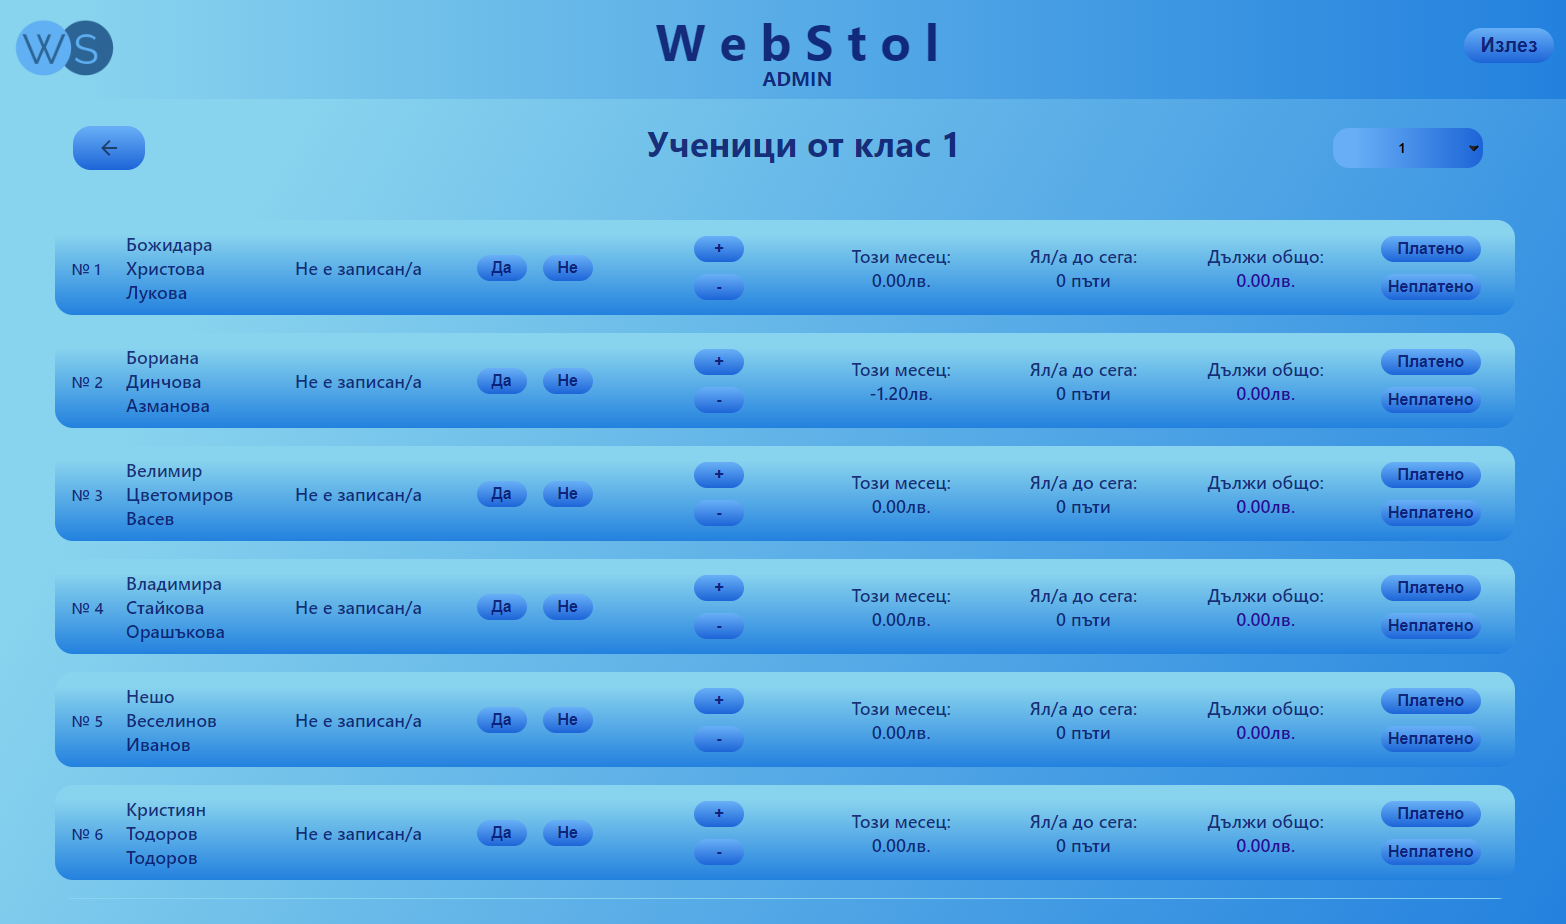
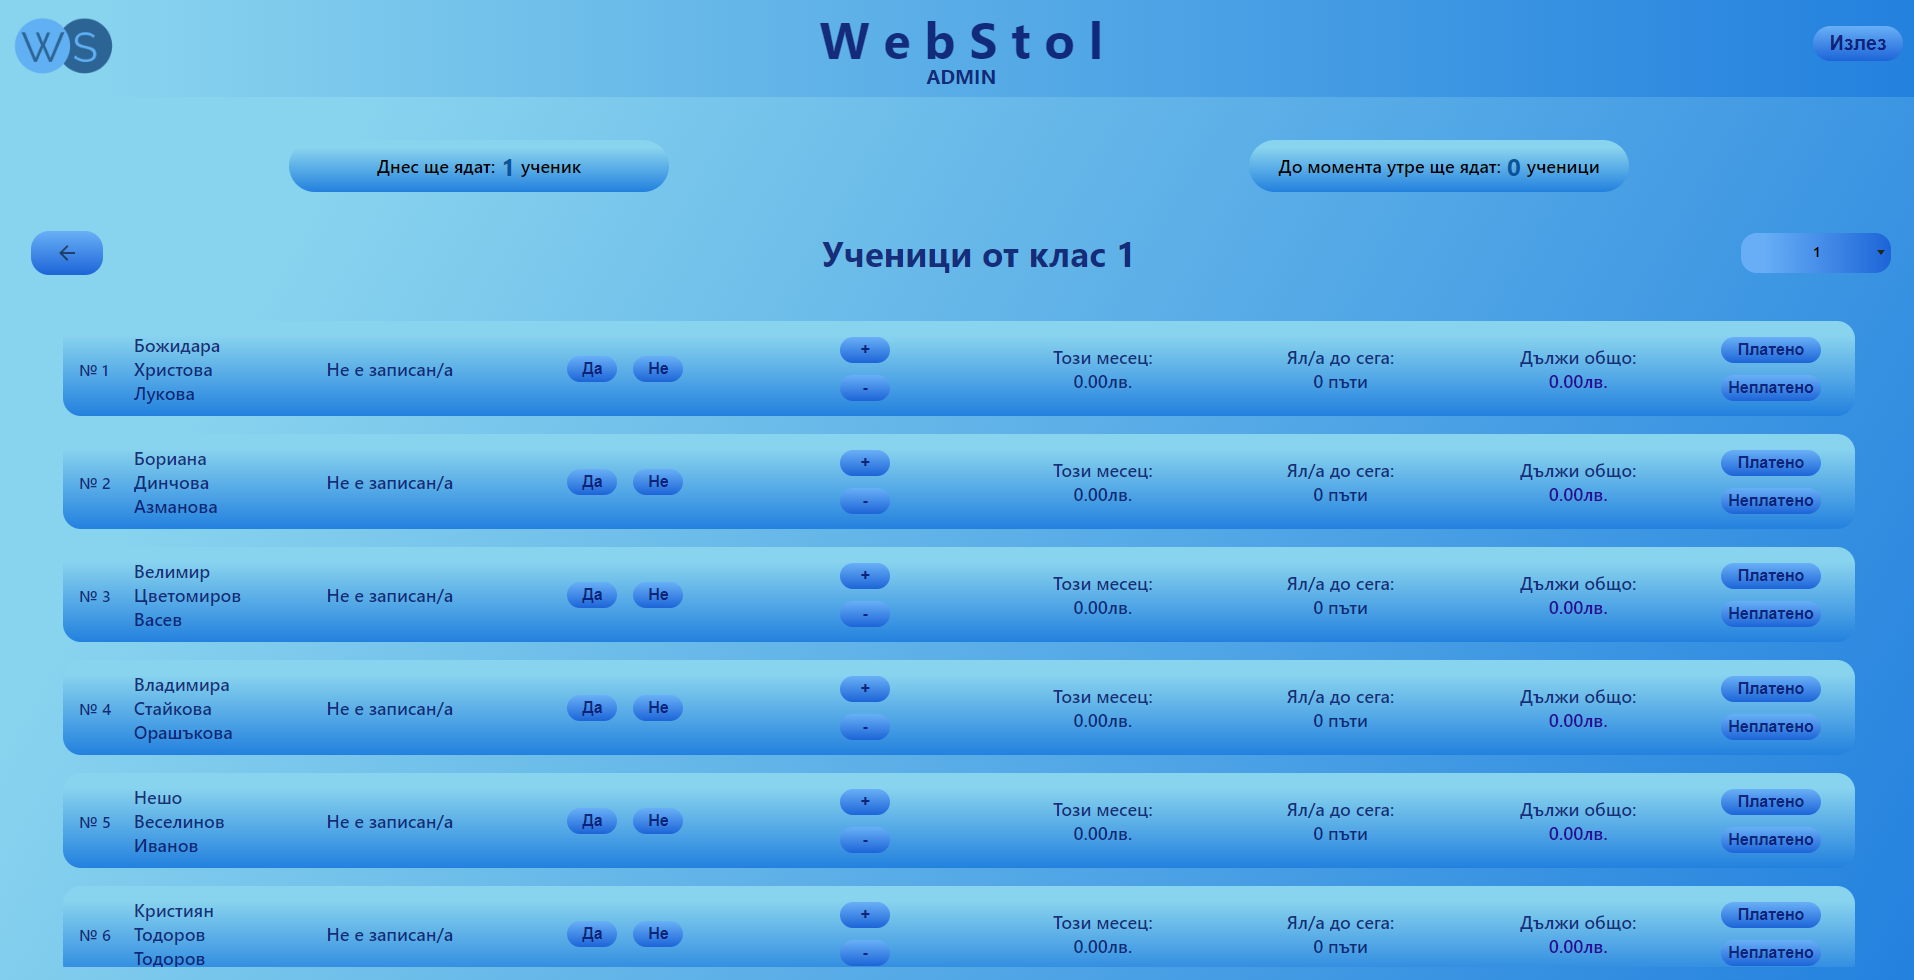
done

diff --git a/src/styles/menuMoneyCC.css b/src/styles/menuMoneyCC.css
@@ -6,8 +6,8 @@
 }
 .menu__money--div p {
   font-size: var(--fs-550);
-  text-align:center;
-  margin-left:12px;
+  text-align:left!important;
+  margin-left:18px;
   width: 100%;
   display: flex;
   flex-wrap: wrap;
@@ -19,18 +19,18 @@
 .display-flex {
   display: flex;
   flex-wrap: wrap;
-  justify-content: center;
+  justify-content: flex-start!important;
   align-items: center;
-  width: 100%;
+  width: 50%;
   margin-right:24px;
-  max-width: 470px;
+  max-width: 670px;
 }
 .display-flex-two {
   display: flex;
   margin-top: 36px;
   justify-content: center;
   align-items: center;
-  width: 100%;
+  width: 50%;
   max-width: 470px;
 }
 .menu-display-flex {
@@ -59,25 +59,25 @@
   .menu__money--div p {
     font-size: var(--fs-530);
     text-align:center;
-  margin-left:12px;
     font-weight: 600;
   }
   .menu__money--div .button {
     margin-bottom: 12px;
   }
-  .display-flex-two {
+  /* .display-flex-two {
     max-width: 400px;
-  }
+  } */
+}
+@media only screen and (max-width: 960px){
+  .menu__money--div .button {
+    margin-top:12px;
+   }
 }
 @media only screen and (max-width: 845px) {
   .menu__money--div p {
     font-size: var(--fs-530);
-    text-align:center;
-  margin-left:12px;
     height: 100%;
     font-weight: 600;
   }
-  .display-flex {
-    max-width: 350px;
-  }
+ 
 }

diff --git a/src/pages/MainPagePages/UsersListPageComponents/DisplayUsersList.js b/src/pages/MainPagePages/UsersListPageComponents/DisplayUsersList.js
@@ -348,8 +348,17 @@ const [eatNumberForToday, serEatNumberForToday] = useState();
   return (
     <div className="main-div-displayUsersList">
       <div className="data-container">
-        <div className="data data-today">Днес ще ядат: <span>{eatNumberForToday}</span> </div>
-        <div className="data data-tomorrow">До момента утре ще ядат: <span>{eatNumberForTomorrow}</span></div>
+        {eatNumberForToday === 1 ? (
+          <div className="data data-today">Днес ще ядат:<span>{eatNumberForToday}</span>ученик</div>
+        ):(
+          <div className="data data-today">Днес ще ядат:<span>{eatNumberForToday}</span>ученици</div>
+        )}
+        {eatNumberForTomorrow === 1 ? (
+
+          <div className="data data-tomorrow">До момента утре ще ядат:<span>{eatNumberForTomorrow}</span>ученик</div>
+          ): (
+            <div className="data data-tomorrow">До момента утре ще ядат:<span>{eatNumberForTomorrow}</span>ученици</div>
+          )}
       </div>
       <div className="df students-df">
           <div className="icon-button-div">

diff --git a/src/styles/DisplayUsersList.css b/src/styles/DisplayUsersList.css
@@ -29,11 +29,11 @@ main
 }
 .map-div:hover {
   overflow-x:hidden;
-  transform: scale(1.02);
+  transform: scale(1.04);
   box-shadow: 7px 8px 15px #010535c9;
 }
 .students-df {
-  padding: 16px;
+  padding: 16px 28px ;
   overflow:hidden;
   display: flex;
   width: 100%;
@@ -186,7 +186,6 @@ selector
 
 */
 .selector-title {
-  margin-left:40px;
   font-size: var(--fs-700);
 }
 .student-select {
@@ -250,7 +249,7 @@ select option {
   padding: 15px 0;
   display: flex;
   align-items: center;
-  justify-content: center;
+  justify-content: flex-start;
 }
 
 .back-icon {
@@ -270,17 +269,23 @@ select option {
 .data{
   transition: all 450ms ease;
   /* margin:0 12px; */
-  font-size:22px;
+  font-size:18px;
+  width:100%;
   font-weight:600;
-  padding:16px;
-  min-width:40%;
+  padding:8px 24px;
+  margin:36px 0 12px 0;
+  /* min-width:40%; */
   display: flex;
   align-items: center;
   justify-content: center;
+  background: linear-gradient(180deg, var(--lightBlue) 15.34%, #2280de 100.78%);
+  border-radius:48px;
+  max-width:380px!important;
 }
 
 .data:hover {
   transform: scale(1.04);
+  box-shadow: 6px 3px 10px #010535c9;
 }
 .padding-right{
  display: flex;

diff --git a/src/pages/MainPageCustomComponents/usersListCC.js b/src/pages/MainPageCustomComponents/usersListCC.js
@@ -50,12 +50,26 @@ export default function UsersListCC({ Set_UL_CC_GetEatNumber_Loading }) {
 
     return (
       <div className="tab__description-users">
-        <p>
-          Днес ще ядат - <span>{eatNumberForToday}</span>
+          {eatNumberForToday === 1 ? (
+            
+            <p className="column-p">
+            Днес ще ядат: <span>{eatNumberForToday} ученик</span>
+            </p>
+            ):(
+              <p className="column-p">
+              Днес ще ядат: <span>{eatNumberForToday} ученици</span>
+              </p>
+            )}
+        {eatNumberForTomorrow === 1 ? (
+
+          <p className="column-p">
+          До момента утре ще ядат: <span>{eatNumberForTomorrow} ученик</span>
         </p>
-        <p>
-          До момента утре ще ядат - <span>{eatNumberForTomorrow}</span>
-        </p>
+          ): (
+            <p className="column-p">
+            До момента утре ще ядат: <span>{eatNumberForTomorrow} ученици</span>
+          </p>
+          )}
       </div>
     );
   }

diff --git a/src/styles/menuForThisWeek.css b/src/styles/menuForThisWeek.css
@@ -1,8 +1,16 @@
+.menu-center{
+  display: flex;
+  flex-direction:column;
+  align-items: center;
+  justify-content: center;
+}
+
 .main-div-menuThisWeek {
   display: flex;
   flex-wrap: wrap;
   margin: 36px;
-  padding: 0px 8px;
+  padding: 0px ;
+  max-width:1500px;
   border-radius: 16px;
   justify-content: center;
   align-items: center;
@@ -30,7 +38,7 @@
   justify-content: space-around;
   /* height:250px; */
   overflow: hidden;
-  padding: 12px;
+  padding: 12px 16px;
   margin-right:12px;
   /* background: linear-gradient(360deg, var(--secondaryBackground-firstColor) 2.34%, var(--secondaryBackground-secondColor) 100.78%); */
   /* max-width:420px;

diff --git a/src/pages/MainPagePages/MonthReportPage.js b/src/pages/MainPagePages/MonthReportPage.js
@@ -129,8 +129,8 @@ export default function MonthReport() {
       )}
       <div className={!loading ? null : "opacity-container"}>
         <div className="month__report--content-div">
-          <main className="main__section--MonthReportPage">
             <PageHeader />
+          <main className="main__section--MonthReportPage">
             <div className="there__was--no-div-but-i-wanted-padding-top-and-bottom ">
               <div className="month__report-df">
               <IconButton className="arrow-back  back-icon" aria-label="delete" size="small" onClick={goToMainPage}>

diff --git a/src/styles/MonthReportPage.css b/src/styles/MonthReportPage.css
@@ -40,14 +40,17 @@ main
 */
 .month__report--content-div {
   height: 100vh;
+  overflow:hidden;
 }
 .main__section--MonthReportPage {
-  height: 100%;
+  height: 90%;
   background: linear-gradient(120deg, var(--background-firstColor) 15.34%, var(--background-secondColor) 100.78%);
   display: flex;
   flex-wrap: wrap;
   align-items: center;
   justify-content: center;
+  overflow:hidden;
+  padding-top:40px;
 }
 /*
 
@@ -60,6 +63,8 @@ go back button
   justify-content: space-between;
   width: 100%;
   padding: 12px;
+  margin-top:-24px;
+  
 }
 
 /*

diff --git a/src/styles/MainPage.css b/src/styles/MainPage.css
@@ -165,7 +165,6 @@ Big box css
 .single__box--child {
   width: 100%;
   overflow: hidden;
-  
 }
 .tab__description-menu {
   margin-right: 16px;
@@ -210,7 +209,7 @@ multiple things
   z-index: 1;
   transform: translateY(100%);
   transition: all 750ms ease;
-
+  text-align:left!important;
 }
 
 .menu-img,
@@ -331,7 +330,8 @@ dual boxes
 } 
 
 span {
-  color: #0b549d ;
+  color: #0b549d!important ;
   padding: 2px 6px;
-  font-size: 32px;
+  font-weight:bold;
+  font-size: 24px;
 }

diff --git a/src/pages/MainPagePages/MenuMoneyPageComponents/menuForNextWeek.js b/src/pages/MainPagePages/MenuMoneyPageComponents/menuForNextWeek.js
@@ -92,7 +92,7 @@ export default function MenuForThisWeek({
   };
 
   return (
-    <>
+    <div className="menu-center">
       <h3 className="week__title-two ">Въведете менюто за следващата седмица </h3>
       <div className="next-week" ref={divRef}>
         {newMeals.map((element) => (
@@ -144,6 +144,6 @@ export default function MenuForThisWeek({
           Запази меню
         </button>
       </div>
-    </>
+    </div>
   );
 }

diff --git a/src/styles/header.css b/src/styles/header.css
@@ -43,7 +43,7 @@
   margin-right: 16px;
   margin-bottom: 8px;
   /* background: linear-gradient(90deg, #2082e4 2.34%, #9d47f4 100.78%); */
-  padding: 6px 16px;
+  padding: 12px 34px;
   border-radius: 16px;
   font-weight: 600;
   border: none;
@@ -54,10 +54,11 @@
   flex-direction: column;
   justify-content: center;
   align-items: center;
+ 
 }
 .header__image {
   width: 130px;
 }
 .no__user-div {
-  padding-right: 105px;
+  padding-right: 135px;
 }

diff --git a/src/styles/usersListCC.css b/src/styles/usersListCC.css
@@ -35,6 +35,7 @@ span {
   display: flex;
   width: 100%;
   padding: 12px;
+  padding-top:0;
   justify-content: center;
 }
 .button {
@@ -44,6 +45,16 @@ span {
   border: none;
   /* background: rgb(53, 188, 233); */
   font-size: 15px;
+}
+.column-p{
+  display: flex;
+  flex-direction:column;
+  align-items: flex-start;
+  justify-content: center;
+}
+
+.tab__description-users  {
+ 
 }
 
 

diff --git a/src/pages/MainPageCustomComponents/menuMoneyCC.js b/src/pages/MainPageCustomComponents/menuMoneyCC.js
@@ -57,7 +57,7 @@ export default function MenuMoneyCC({
           </div>
           <div className="display-flex-two">
             <p>
-              Цена за еденично ядене - <span>{priceOneMeal} лв.</span>
+              Цена за еденично ядене: <span>{priceOneMeal} лв.</span>
             </p>
           </div>
         </div>
